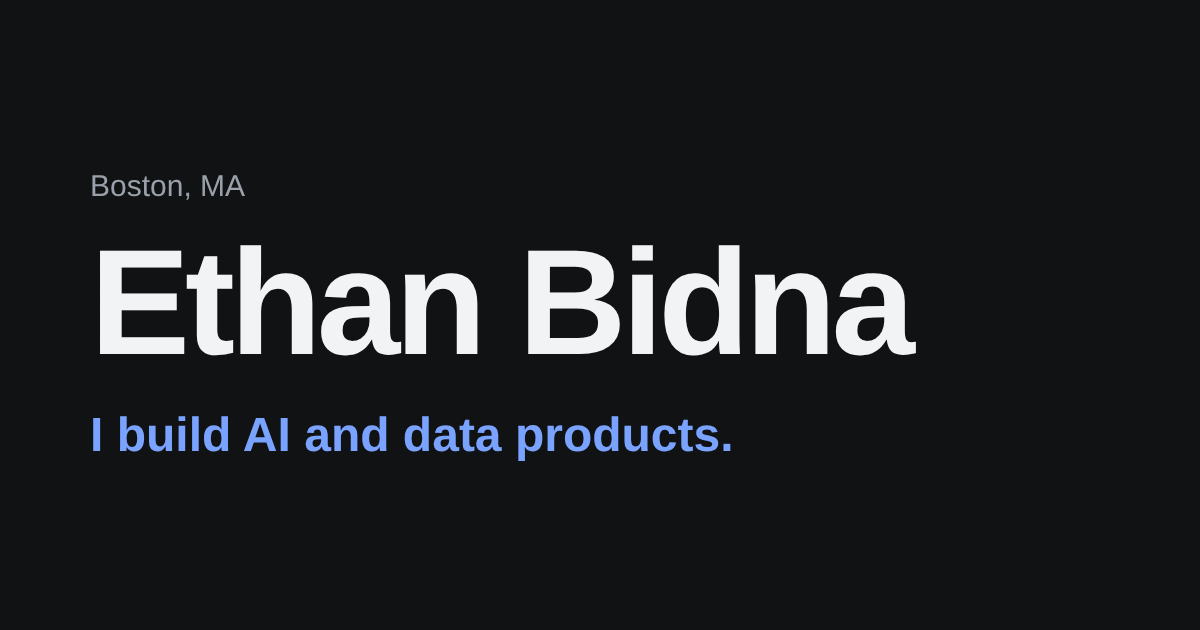
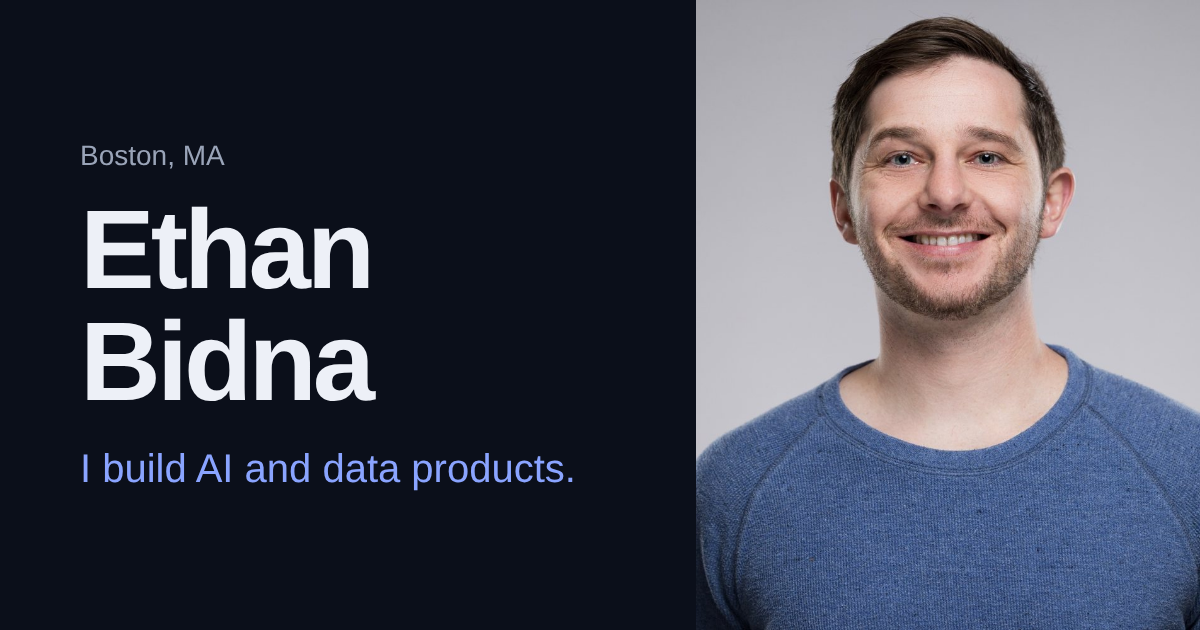
Add headshot and a share-preview image that includes it
The photo is cropped and recompressed with metadata removed.

Claude-Session: https://claude.ai/code/session_015agdMSuh6WT1MRachK4sGr

diff --git a/index.html b/index.html
@@ -57,7 +57,7 @@
       "givenName": "Ethan",
       "familyName": "Bidna",
       "url": "https://www.ethanbidna.com/",
-      "image": "https://www.ethanbidna.com/og.png",
+      "image": "https://www.ethanbidna.com/img/ethan.jpg",
       "description": "Ethan Bidna builds AI and data products, from first idea to pricing, launch and growth. Based in Boston, MA.",
       "email": "mailto:ethansbidna@gmail.com",
       "homeLocation": { "@type": "Place", "address": { "@type": "PostalAddress", "addressLocality": "Boston", "addressRegion": "MA", "addressCountry": "US" } },
